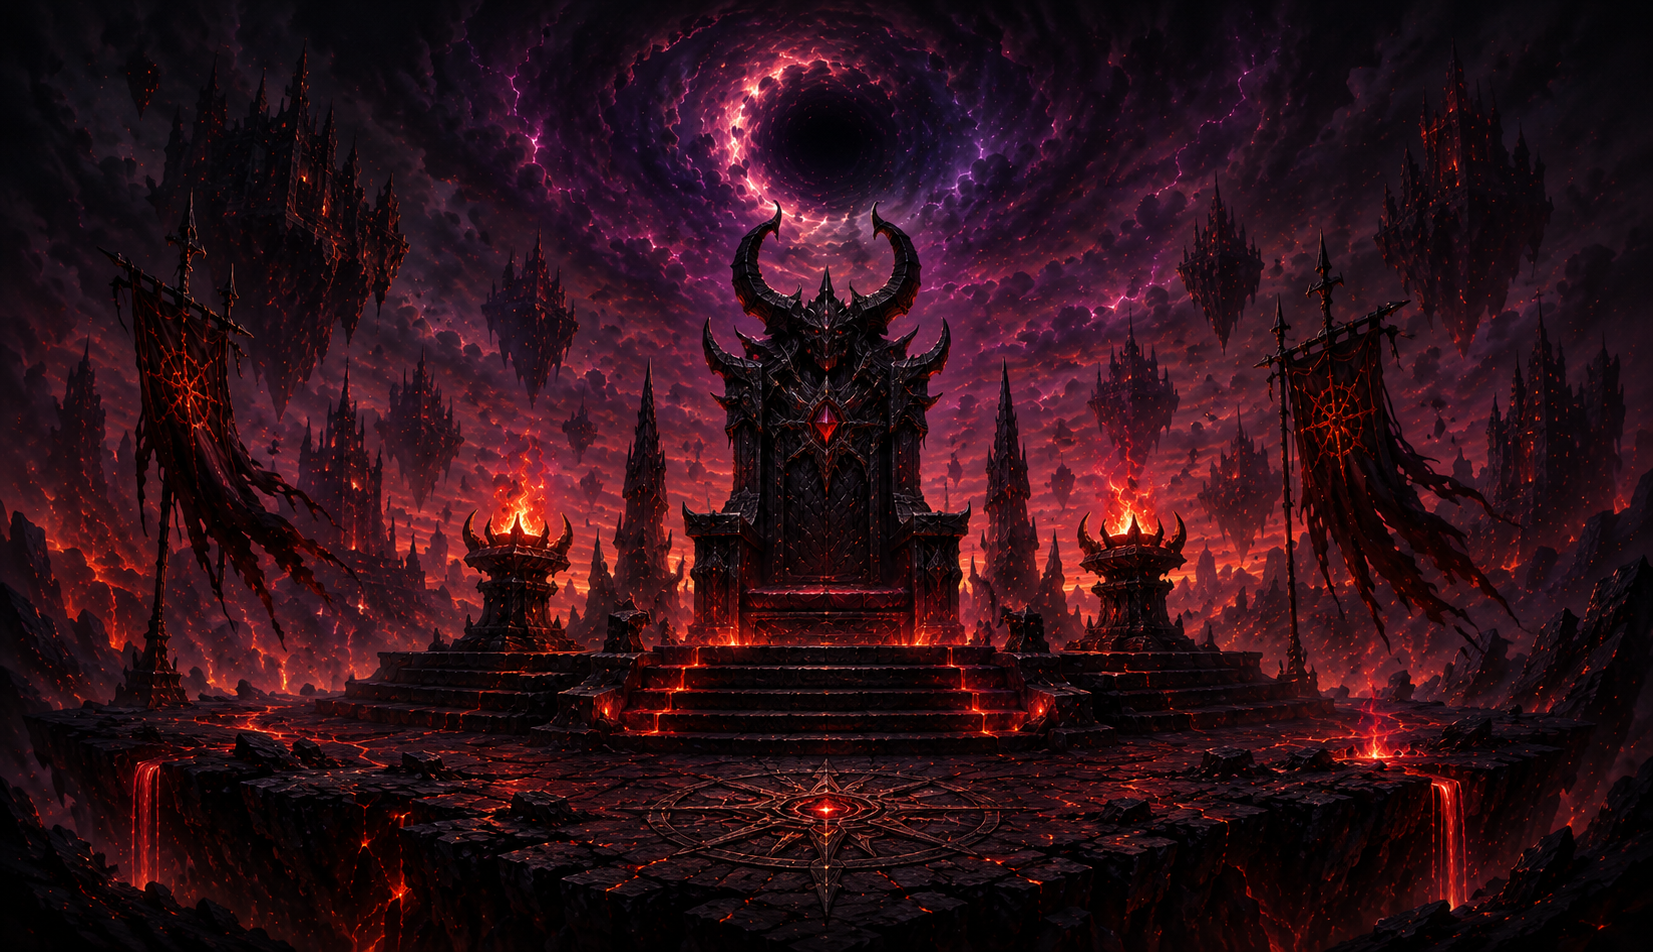
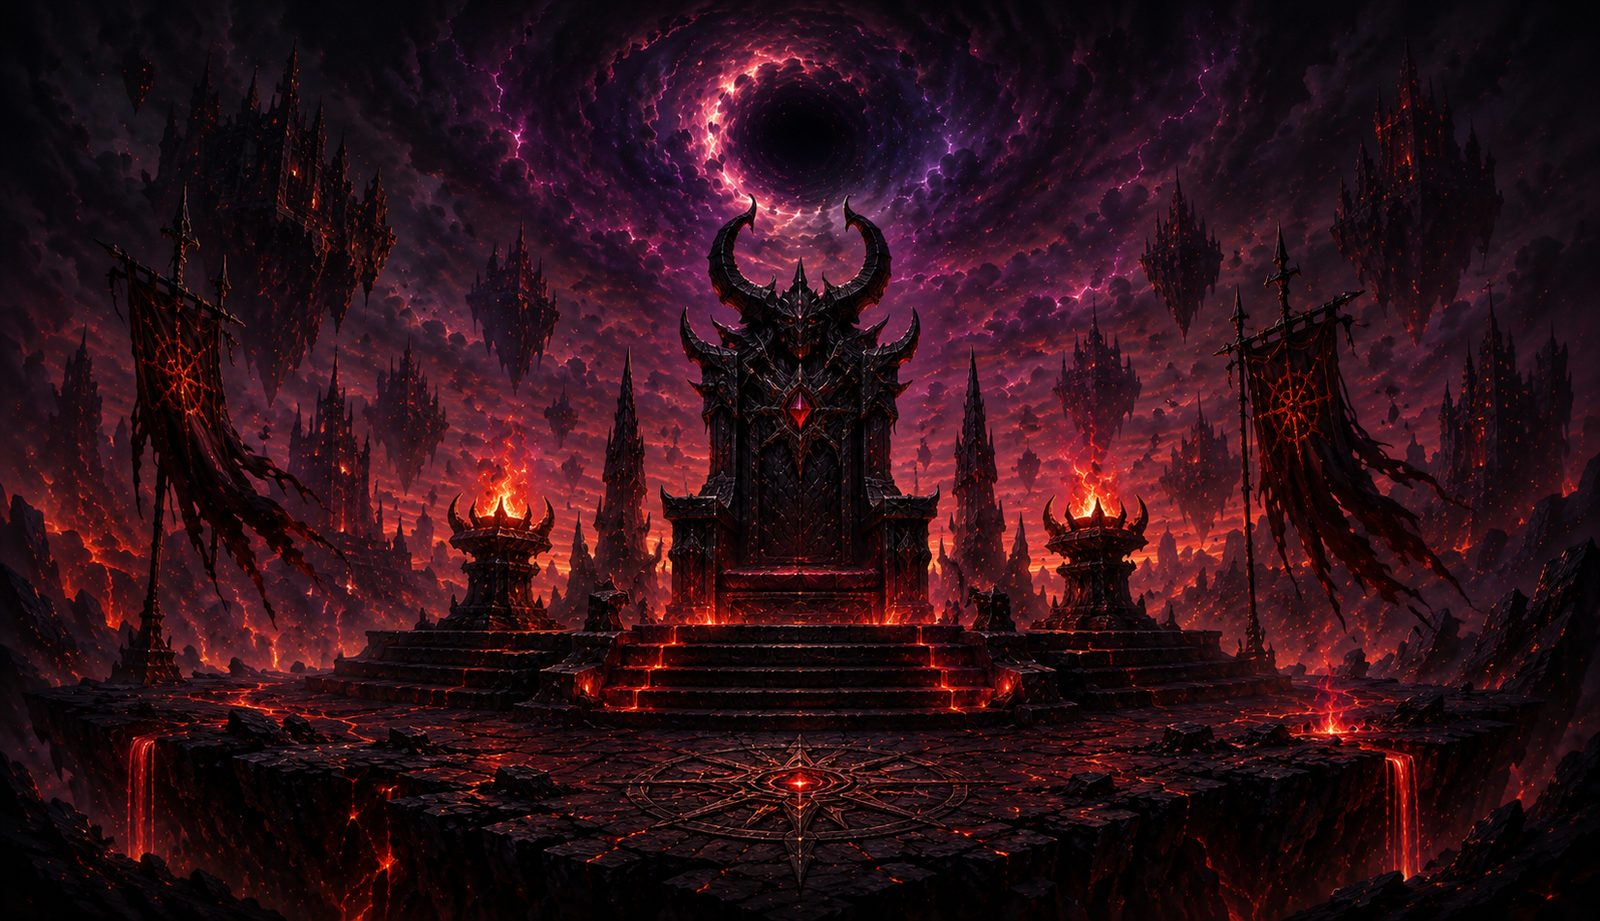
task 48: asuras codex page — chaos surge panel written from the first implementation pull (random-ally plus-three on astras, plus-one floor, the plus-two proven unreachable at call sites), mockup spend-economy voided, shared codex shell parameterized, crimson theme scoped; assets optimized; amendmen

Changed region(s): [[0.0938, 0.3952, 0.125, 0.4256]]

diff --git a/index.html b/index.html
@@ -752,10 +752,10 @@ button{ font-family:Cinzel,serif; letter-spacing:1px; }
 .fi-back:active{ transform:scale(.92); }
 .fi-col{ position:relative; z-index:1; max-width:520px; margin:0 auto; padding:54px 16px 40px; }
 /* T47 THE WIDEN: at >=1024 the fi column widens to 960 for the Devas codex page. The 5 untouched tabs (built for 520)
-   keep their 520 layout centered inside the wide column — only .fi-devas-page uses the full width. Phone unchanged. */
+   keep their 520 layout centered inside the wide column — only the codex pages (.fi-codex-page) use the full width. Phone unchanged. */
 @media(min-width:1024px){
   .fi-col{ max-width:960px; }
-  #fi-body > *:not(.fi-devas-page){ max-width:520px; margin-left:auto; margin-right:auto; }
+  #fi-body > *:not(.fi-codex-page){ max-width:520px; margin-left:auto; margin-right:auto; }
 }
 .fi-tabs{ display:flex; gap:6px; overflow-x:auto; -webkit-overflow-scrolling:touch; padding-bottom:6px; margin-bottom:16px; scrollbar-width:none; }
 .fi-tabs::-webkit-scrollbar{ display:none; }
@@ -861,6 +861,15 @@ button{ font-family:Cinzel,serif; letter-spacing:1px; }
   .fi-dstrats{ flex-direction:row; } .fi-dstrat{ flex:1 1 0; }
   .fi-dctas{ display:flex; gap:12px; } .fi-dctas .fi-dcta{ flex:1 1 0; }
 }
+/* T48 — ASURAS crimson theme (reuses the codex fi-d and fic structure; recolors the faction-identity accents only.
+   Strength-green / weakness-crimson semantic colors are left intact). */
+.fi-asuras-page .fi-dhero-title, .fi-asuras-page .fi-dsec-title, .fi-asuras-page .fi-dclosing,
+.fi-asuras-page .fi-dstrat-h, .fi-asuras-page .fi-dsyn-h{ color:#f0705a; }
+.fi-asuras-page .fi-dhero-eyebrow, .fi-asuras-page .fi-dsub, .fi-asuras-page .fi-dpillar-nm,
+.fi-asuras-page .fi-dpillar-ic, .fi-asuras-page .fi-dchip b, .fi-asuras-page .fi-dmatch-k{ color:var(--crimson); }
+.fi-asuras-page .fi-dpillar, .fi-asuras-page .fi-dchip, .fi-asuras-page .fi-dhero{ border-color:var(--crimson-dim); }
+.fi-asuras-page .fi-dcta{ border-color:var(--crimson-dim); }
+.fi-asuras-page .fi-dcta.primary{ background:linear-gradient(180deg,#3a1410,#1c0805); border-color:var(--crimson); color:#f4b8a8; }
 .fi-tab{ flex:0 0 auto; padding:9px 13px; border-radius:9px; background:rgba(0,0,0,.45); backdrop-filter:blur(5px); border:1px solid rgba(255,255,255,.16); color:var(--ink-dim); font-family:Cinzel,serif; font-size:11px; letter-spacing:.5px; white-space:nowrap; cursor:pointer; }
 .fi-tab.sel{ border-color:var(--gold); color:var(--gold); background:rgba(60,44,12,.5); }
 .fi-idhead{ text-align:center; margin-bottom:16px; }
@@ -5759,27 +5768,28 @@ function fiRenderWin(){
 /* ═══ TASK 47 — DEVAS CODEX PAGE. Authority: docs/DEVAS_CODEX_CONTENT_v1.md. Claim tags: [PULLED]=engine-verbatim,
    [VERIFY]=STEP-0-confirmed engine truth, [ED]=editorial. Every card mini is the T41b component (art crop + band);
    every txt shown is the LIVE engine txt (verbatim by construction, pulled from DECKS.devas). ═══ */
-function fiDDef(id){ return DECKS.devas.find(c=>c.id===id); }
-function fiCM(id){                               // T41b codex mini: art crop + name band + power chip, tappable → inspect
-  const c=fiDDef(id); if(!c) return fh('div',null);
-  const m=fh('div',{class:'fic-mini', onclick:()=>fiOpenInspectCard('devas', c)});
+/* T47/T48 — codex mini helpers, faction-parameterized (shared by the Devas + Asuras codex pages). */
+function fiCDef(faction,id){ return DECKS[faction].find(c=>c.id===id); }
+function fiCM(faction,id){                       // T41b codex mini: art crop + name band + power chip, tappable → inspect
+  const c=fiCDef(faction,id); if(!c) return fh('div',null);
+  const m=fh('div',{class:'fic-mini', onclick:()=>fiOpenInspectCard(faction, c)});
   const art=fh('div',{class:'fic-art'});
   const img=new Image(); img.alt=c.n; img.loading='lazy';
   img.onload=()=>img.classList.add('on'); img.onerror=()=>{ art.classList.add('fic-pending'); art.textContent=c.n; };
-  img.src=fiThumbSrc(c,'devas'); art.append(img); m.append(art);
+  img.src=fiThumbSrc(c,faction); art.append(img); m.append(art);
   m.append(fh('div',{class:'fic-band'}, fh('div',{class:'fic-nm'}, c.n), c.sub?fh('div',{class:'fic-epi'}, c.sub):null));
   if(c.p>0) m.append(fh('div',{class:'fic-chip'}, String(c.p)));
   return m;
 }
-function fiCMtrio(ids){ return fh('div',{class:'fic-trio'}, ...ids.map(fiCM)); }
-function fiCMtxt(id){                            // mini + LIVE verbatim engine txt (§2 key cards, §5 host)
-  const c=fiDDef(id);
-  return fh('div',{class:'fic-card'}, fiCM(id),
+function fiCMtrio(faction,ids){ return fh('div',{class:'fic-trio'}, ...ids.map(id=>fiCM(faction,id))); }
+function fiCMtxt(faction,id){                     // mini + LIVE verbatim engine txt (§2 key cards, §5 host)
+  const c=fiCDef(faction,id);
+  return fh('div',{class:'fic-card'}, fiCM(faction,id),
     fh('div',{class:'fic-txt'}, fh('div',{class:'fic-txt-nm'}, c.n), fh('p',null, c.txt)));
 }
 function fiSecTitle(t){ return fh('div',{class:'fi-dsec-title'}, t); }
 function fiRenderDevas(){
-  const GOLD='#E8C874', node=fh('div',{class:'fi-devas-page'});
+  const node=fh('div',{class:'fi-codex-page fi-devas-page'});
   // ── §1 HERO BANNER ──
   const hero=fh('div',{class:'fi-dhero'});
   hero.style.backgroundImage="url('assets/img/devas_codex_hero.png?v=1')";
@@ -5812,7 +5822,7 @@ function fiRenderDevas(){
   ].forEach(t=>ul.append(fh('li',null,t)));
   sbody.append(ul); shield.append(sbody); node.append(shield);
   node.append(fiSecTitle('Key Cards'));
-  node.append(fh('div',{class:'fic-cards'}, fiCMtxt('kavacha'), fiCMtxt('vedikeeper'), fiCMtxt('airavatacalf')));
+  node.append(fh('div',{class:'fic-cards'}, fiCMtxt('devas','kavacha'), fiCMtxt('devas','vedikeeper'), fiCMtxt('devas','airavatacalf')));
   // ── §3 STRENGTHS / WEAKNESSES (altar divider) ──
   node.append(fiSecTitle('Strengths & Weaknesses'));
   const sw=fh('div',{class:'fi-dsw'});
@@ -5841,12 +5851,12 @@ function fiRenderDevas(){
   ].forEach(([t,cap,ids],i)=>{
     strat.append(fh('section',{class:'fi-dpanel fi-dstrat'},
       fh('div',{class:'fi-dstrat-n'}, String(i+1)),
-      fh('div',{class:'fi-dstrat-h'}, t), fh('p',{class:'fi-dstrat-cap'}, cap), fiCMtrio(ids)));
+      fh('div',{class:'fi-dstrat-h'}, t), fh('p',{class:'fi-dstrat-cap'}, cap), fiCMtrio('devas',ids)));
   });
   node.append(strat);
   // ── §5 THE CELESTIAL HOST ──
   node.append(fiSecTitle('The Celestial Host'));
-  node.append(fh('div',{class:'fic-cards fic-host'}, ...['indra','surya','brihaspati','vayu','vajra','gayatri'].map(fiCMtxt)));
+  node.append(fh('div',{class:'fic-cards fic-host'}, ...['indra','surya','brihaspati','vayu','vajra','gayatri'].map(id=>fiCMtxt('devas',id))));
   node.append(fh('button',{class:'fi-dcta', onclick:()=>{ colFaction='devas'; showCollection(); }}, 'View Full Collection ›'));
   // ── §6 SIGNATURE SYNERGIES ──
   node.append(fiSecTitle('Signature Synergies'));
@@ -5858,7 +5868,7 @@ function fiRenderDevas(){
   ].forEach(([t,ids,res])=>{
     const p=fh('section',{class:'fi-dpanel fi-dsyn-p'}, fh('div',{class:'fi-dsyn-h'}, t));
     const row=fh('div',{class:'fi-dsyn-row'});
-    ids.forEach((id,i)=>{ if(i>0) row.append(fh('span',{class:'fi-dplus'}, '+')); row.append(fiCM(id)); });
+    ids.forEach((id,i)=>{ if(i>0) row.append(fh('span',{class:'fi-dplus'}, '+')); row.append(fiCM('devas',id)); });
     row.append(fh('span',{class:'fi-darrow'}, '→'), fh('div',{class:'fi-dsyn-res'}, res));
     p.append(row); syn.append(p);
   });
@@ -5879,6 +5889,109 @@ function fiRenderDevas(){
     fh('button',{class:'fi-dcta', onclick:()=>{ colFaction='devas'; showCollection(); }}, 'View Deva Collection'),
     fh('button',{class:'fi-dcta locked', onclick:()=>toastMute('Coming with the Wave')}, 'Build a Deva Deck'),
     fh('button',{class:'fi-dcta primary', onclick:()=>fiSelectTab('asuras')}, 'Continue to Asuras ›')));
+  return node;
+}
+/* ═══ TASK 48 — ASURAS CODEX PAGE (the T47 shell). Authority: docs/ASURAS_CODEX_CONTENT_v1.md. Same structure + classes
+   as the Devas page; faction='asuras' (crimson theme via .fi-asuras-page); every card mini live-verbatim from DECKS.asuras. ═══ */
+function fiRenderAsuras(){
+  const F='asuras', node=fh('div',{class:'fi-codex-page fi-asuras-page'});
+  // §1 HERO
+  const hero=fh('div',{class:'fi-dhero'}); hero.style.backgroundImage="url('assets/img/asuras_codex_hero.png?v=1')";
+  hero.append(fh('div',{class:'fi-dhero-scrim'}),
+    fh('div',{class:'fi-dhero-in'},
+      fh('div',{class:'fi-dhero-eyebrow'}, 'THE BREAKERS OF RULES'),
+      fh('div',{class:'fi-dhero-title'}, 'ASURAS'),
+      fh('p',{class:'fi-dhero-intro'}, 'Born of ambition and forged in void-fire, the Asuras seize power without apology. Every gift they take has a price, and they pay it gladly. In chaos they find freedom. In destruction, opportunity.'),
+      fh('div',{class:'fi-dchips'},
+        fh('div',{class:'fi-dchip'}, fh('b',null,'Difficulty'),' Intermediate'),
+        fh('div',{class:'fi-dchip'}, fh('b',null,'Playstyle'),' Aggression and Calculated Risk'))));
+  node.append(hero);
+  node.append(fh('div',{class:'fi-dpillars'},
+    fh('div',{class:'fi-dpillar'}, fh('div',{class:'fi-dpillar-ic'}, '⚔'), fh('div',{class:'fi-dpillar-nm'}, 'Power')),
+    fh('div',{class:'fi-dpillar'}, fh('div',{class:'fi-dpillar-ic'}, '♛'), fh('div',{class:'fi-dpillar-nm'}, 'Ambition')),
+    fh('div',{class:'fi-dpillar'}, fh('div',{class:'fi-dpillar-ic'}, '✷'), fh('div',{class:'fi-dpillar-nm'}, 'Chaos'))));
+  // §2 CHAOS SURGE
+  node.append(fiSecTitle('Signature Mechanic — Chaos Surge'));
+  const surge=fh('section',{class:'fi-dpanel fi-dshield'});
+  surge.append(fh('div',{class:'fi-dshield-art'}, fh('img',{src:'assets/img/asuras_codex_surge.png?v=1', alt:''})));
+  const body=fh('div',{class:'fi-dshield-body'},
+    fh('p',{class:'fi-dlead'}, 'Chaos Surge is the storm the Asura weapons carry — every Astra they loose feeds it.'),
+    fh('div',{class:'fi-dsub'}, 'How Chaos Surge works'));
+  const ul=fh('ul',{class:'fi-dlist'});
+  [ 'When you play an Asura Astra, Chaos Surge fires: a random friendly Unit gains +3 power. Even an Asura play that triggers nothing sparks a smaller +1 Surge — chaos always finds a way.',
+    'Nearly every Asura Astra reads “Triggers Chaos Surge” — and some trigger it twice.',
+    'Kali Asura feeds on it: “If Chaos Surge triggered this round, gain +3 power.”',
+    'Chandrahas doubles your first Astra each round — and its Surges with it.'
+  ].forEach(t=>ul.append(fh('li',null,t)));
+  body.append(ul); surge.append(body); node.append(surge);
+  node.append(fiSecTitle('Key Cards'));
+  node.append(fh('div',{class:'fic-cards'}, fiCMtxt(F,'kali'), fiCMtxt(F,'chandrahas'), fiCMtxt(F,'vidyutastra')));
+  // §3 STRENGTHS / WEAKNESSES (throne divider)
+  node.append(fiSecTitle('Strengths & Weaknesses'));
+  const sw=fh('div',{class:'fi-dsw'});
+  const mk=(cls,title,items)=>{ const col=fh('div',{class:'fi-dpanel '+cls}, fh('div',{class:'fi-dsw-h'}, title));
+    const l=fh('ul',{class:'fi-dlist'}); items.forEach(t=>l.append(fh('li',null,t))); col.append(l); return col; };
+  sw.append(mk('fi-dstr','Strengths',[
+    'Explosive burst — Kumbhakarna wakes for 3 to all; Pashupatastra converts your whole board into damage.',
+    'Board-wide Astras pierce Dharma Shields.',
+    'Disruption from every angle — discard (Rahu), stolen turns (Tamasa), negation (Brahmadanda).',
+    'Sacrifice converts bodies into cards and tokens (Rudhira Bali, Raktabija’s Curse).',
+    'Relentless tempo — free Astra turns (Mayasura’s Blueprint).']));
+  sw.append(fh('div',{class:'fi-daltar'}, fh('img',{src:'assets/img/asuras_codex_throne.png?v=1', alt:''})));
+  sw.append(mk('fi-dwk','Weaknesses',[
+    'The price is real — your own cards cost you units, power, and turns (Ahamkara, Dhumraksha, Pisacha’s decay, Mahishasura’s hunger).',
+    'Single-target removal is blanked by a Dharma Shield.',
+    'Almost no healing — the Iron Crucible returns 1, and only to the already-wounded.',
+    'Tripura’s glory ends the instant any Astra is played — including yours.',
+    'Overextension invites ruin — spend the board, and a long round buries you.']));
+  node.append(sw);
+  // §4 CORE STRATEGY
+  node.append(fiSecTitle('Core Strategy'));
+  const strat=fh('div',{class:'fi-dstrats'});
+  [['Strike Before They Settle','Your curve is a weapon. Spend it while their engines are still warming.',['berserker','kali','meghnad']],
+   ['Make Every Astra Count','Sequence Chandrahas and the Blueprint so each weapon does double work.',['chandrahas','blueprint','vidyutastra']],
+   ['Pay the Price on Purpose','Sacrifice on your schedule, not theirs — a unit spent is a card drawn, a token raised.',['bloodoath','raktabija','ahamkara']]
+  ].forEach(([t,cap,ids],i)=>{
+    strat.append(fh('section',{class:'fi-dpanel fi-dstrat'},
+      fh('div',{class:'fi-dstrat-n'}, String(i+1)),
+      fh('div',{class:'fi-dstrat-h'}, t), fh('p',{class:'fi-dstrat-cap'}, cap), fiCMtrio(F,ids)));
+  });
+  node.append(strat);
+  // §5 THE INFERNAL HOST
+  node.append(fiSecTitle('The Infernal Host'));
+  node.append(fh('div',{class:'fic-cards fic-host'}, ...['mahabali','ravana','kumbha','pashupata','ahamkara','chandrahas'].map(id=>fiCMtxt(F,id))));
+  node.append(fh('button',{class:'fi-dcta', onclick:()=>{ colFaction='asuras'; showCollection(); }}, 'View Full Collection ›'));
+  // §6 SIGNATURE SYNERGIES
+  node.append(fiSecTitle('Signature Synergies'));
+  const syn=fh('div',{class:'fi-dsyn'});
+  [['The Chaos Engine',['chandrahas','kali'],'Every weapon you loose pays twice.'],
+   ['The Astra Storm',['bana','berserker','blueprint'],'The storm feeds the army that rides it.'],
+   ['The Price Paid Forward',['bloodoath','raktabija'],'Spend one soldier. Collect a card and two more.'],
+   ['Death is Negotiable',['shukra','sanjivani'],'Your dead return. So do theirs — on your side.']
+  ].forEach(([t,ids,res])=>{
+    const p=fh('section',{class:'fi-dpanel fi-dsyn-p'}, fh('div',{class:'fi-dsyn-h'}, t));
+    const row=fh('div',{class:'fi-dsyn-row'});
+    ids.forEach((id,i)=>{ if(i>0) row.append(fh('span',{class:'fi-dplus'}, '+')); row.append(fiCM(F,id)); });
+    row.append(fh('span',{class:'fi-darrow'}, '→'), fh('div',{class:'fi-dsyn-res'}, res));
+    p.append(row); syn.append(p);
+  });
+  node.append(syn);
+  // §7 MATCHUP GUIDANCE
+  node.append(fiSecTitle('Matchup Guidance'));
+  const mg=fh('section',{class:'fi-dpanel fi-dmatch'});
+  [['Strong into','Slow engines and greedy value plans — you end the game before their accumulation matters.'],
+   ['Difficult against','Deva protection — a Dharma Shield blanks your single-target removal; lean on board-wide Astras, which pierce.'],
+   ['Protect','Your Surge payoffs and engines — Kali Asura, Bana, Chandrahas.'],
+   ['Remove first','Healers and shields — everything that lets them survive your best turn.'],
+   ['Intermediate tip','Count the price before you pay it. Every sacrifice should buy tempo you actually use this round.']
+  ].forEach(([k,v])=>mg.append(fh('div',{class:'fi-dmatch-row'}, fh('span',{class:'fi-dmatch-k'}, k), fh('span',{class:'fi-dmatch-v'}, v))));
+  node.append(mg);
+  // §8 CLOSING + CTAs
+  node.append(fh('div',{class:'fi-dclosing'}, 'The Asuras do not ask for power. They take it.'));
+  node.append(fh('div',{class:'fi-dctas'},
+    fh('button',{class:'fi-dcta', onclick:()=>{ colFaction='asuras'; showCollection(); }}, 'View Asura Collection'),
+    fh('button',{class:'fi-dcta locked', onclick:()=>toastMute('Coming with the Wave')}, 'Build an Asura Deck'),
+    fh('button',{class:'fi-dcta primary', onclick:()=>fiSelectTab('vanaras')}, 'Continue to Vanaras ›')));
   return node;
 }
 function fiRenderFaction(faction){
@@ -5970,7 +6083,7 @@ function fiRenderRealms(){
 const fiTabNodes = {};
 function fiSelectTab(tab){
   document.querySelectorAll('#fi-tabs .fi-tab').forEach(b=> b.classList.toggle('sel', b.dataset.tab===tab));
-  if(!fiTabNodes[tab]) fiTabNodes[tab] = tab==='win' ? fiRenderWin() : tab==='realms' ? fiRenderRealms() : tab==='devas' ? fiRenderDevas() : fiRenderFaction(tab);   // T47: Devas gets the dedicated codex page
+  if(!fiTabNodes[tab]) fiTabNodes[tab] = tab==='win' ? fiRenderWin() : tab==='realms' ? fiRenderRealms() : tab==='devas' ? fiRenderDevas() : tab==='asuras' ? fiRenderAsuras() : fiRenderFaction(tab);   // T47 Devas / T48 Asuras codex pages
   const body=$('fi-body'); body.innerHTML=''; body.append(fiTabNodes[tab]);
   $('factionintro').scrollTop=0;
 }

diff --git a/docs/DESIGN_SYSTEM_RESKIN_v1.md b/docs/DESIGN_SYSTEM_RESKIN_v1.md
@@ -789,3 +789,94 @@ phone and 960; regression landing/collection(44)/vault/mulligan/battle
 identical; parity — engine 0 lines, test.js byte-identical 40.9/59.1,
 scenario 50 / venom 38 / story 48, 0 console.log / 0 console errors.
 NOT committed.
+
+## AMENDMENT A8 — ASURAS CODEX PAGE (ruled 2026-07-20, T48)
+Authority: docs/ASURAS_CODEX_CONTENT_v1.md. The Asuras tab of the
+Factions & Realms page (data-tab="asuras") now renders the Asuras
+codex (fiRenderAsuras) via the T47 shell — the same §1–§8 structure
+and .fi-d*/.fic-* classes as the Devas page, faction='asuras', crimson
+theme (.fi-asuras-page recolors the faction-identity accents only;
+the strength-green / weakness-crimson semantics are left intact). The
+codex mini helpers were parameterized by faction (fiCM/fiCMtxt/fiCMtrio
+now take faction); the widen selector became `#fi-body >
+*:not(.fi-codex-page)` so BOTH codex pages use 960 at >=1024 (measured:
+asuras 928, devas 928, the other 4 tabs 520, no h-overflow). Every card
+mini renders LIVE verbatim txt from DECKS.asuras (post-R90). The old
+fiRenderFaction('asuras') content is replaced; all other tabs untouched.
+⚠ BUILD NOTE: a comment `/* … .fi-d*/.fic-* … */` closed early on the
+`*/` inside `.fi-d*/`, silently eating the crimson rules — caught by a
+CSSOM check (rule absent), reworded; the lesson: no `*/` glob-strings
+inside CSS comments.
+
+CHAOS SURGE — the STEP 0 pull: chaosSurge(g,pi,times,amount=3) is
+Asura-only; per `times` it picks a RANDOM friendly non-ghost Unit
+(g.rng) and adds `amount` power, then sets chaosThisRound (for Kali).
+CALL-SITE AMOUNT TABLE (the complete set, T48 pre-commit reconcile):
+line 1642 floor surge = +1; line 1678 Asura Astra = +3 (default); line
+1698 Asura Mantra (EXP-H) = +3 (default); line 1717 Chandrahas ON PLAY
+= +3 (default). So the only REACHABLE amounts are +3 and +1. NO call
+site passes +2 — the `// EXP-I: +2 from Unit plays` comment on line 818
+is VESTIGIAL (that experiment was never wired; a unit/hero play that
+doesn't otherwise surge falls through to the +1 floor at 1642), so +2
+is UNREACHABLE and the shipped S2 line's two amounts are complete.
+Triggered immediately by Asura Astras (nearly all read "Triggers Chaos
+Surge") AND Asura Mantras (EXP-H); a +1 floor surge fires on any Asura
+play that didn't otherwise surge (engine.js ~1642). Chandrahas doubles
+`times`; Vidyutastra fires twice. R37
+negation-source: Manasa cancels effect AND surge (surgeNegated);
+Brahmadanda cancels effect only → the caster's Surge still fires.
+FINAL S2 [VERIFY] core line shipped: "When you play an Asura Astra,
+Chaos Surge fires: a random friendly Unit gains +3 power. Even an Asura
+play that triggers nothing sparks a smaller +1 Surge — chaos always
+finds a way." — states the pulled behavior exactly (random beneficiary,
++3 Astra / +1 floor). The R37 negation nuance was OMITTED as advanced
+(the doc's one-sentence allowance): an accurate single sentence would
+have to introduce Manasa/Brahmadanda with no context and confuse the
+codex reader.
+
+CLAIM TABLE (rendered === engine):
+  [VERIFY] Surge core — the written line (above) quoted against the
+    chaosSurge pull ✓ (no contradiction with the doc's [ED] lead; a
+    rewrite-to-truth within protocol, not a STOP).
+  [PULLED] "…and some trigger it twice" — Vidyutastra "Triggers Chaos
+    Surge twice" ✓; Kali "If Chaos Surge triggered this round, gain +3
+    power." = kali def verbatim ✓; Chandrahas double-first-Astra + surge
+    twice = chandrahas def ✓. All three rendered mini txts === engine.
+  [PULLED] S3 "Board-wide Astras pierce Dharma Shields." + "Single-
+    target removal is blanked by a Dharma Shield." = the T47 shield pull
+    (AoE iterates opp.units, ignores astraProtected; single-target astras
+    filter !astraProtected) ✓.
+  [PULLED] Iron Crucible "returns 1, and only to the already-wounded" =
+    "your Units that lost power this round regain 1." ✓; Tripura "ends
+    the instant any Astra is played — including yours" = "Ends the
+    instant any Astra is played by either player." ✓.
+  [PULLED] S5 six host txts (mahabali/ravana/kumbha/pashupata/ahamkara/
+    chandrahas) = live DECKS.asuras post-R90, verbatim ✓ (spot: pashupata
+    rendered === engine).
+  [ED] intro / chips / strengths-weaknesses phrasing / strategy / synergy
+    results / closing — editorial voice. The mockup's invented mechanics
+    (Chaos-spend economy, BHAIRAVA/KAAL ASTRA/ANDHAKAR MANTRA, "44 of 66")
+    are VOID and were not built.
+
+CTA WIRING (real-button proven): §5/§8 [View …Collection] →
+colFaction='asuras'; showCollection() (lands on the Asuras collection
+tab; BACK → landing). §8 [Build an Asura Deck] → visible-locked, toasts
+"Coming with the Wave" (no nav). §8 [Continue to Vanaras] →
+fiSelectTab('vanaras'). Every mini → fiOpenInspectCard('asuras', c).
+
+ASSETS — 3 files optimized in place: asuras_codex_hero (1653×952 →
+1600×921 JPEG-in-png 256KB), asuras_codex_surge (1254² 315KB),
+asuras_codex_throne (1844×853 → 1200×555 144KB). ?v=1 stamps. (Note:
+hero = the lord, throne = the empty throne — filenames match content
+per c8ef995.)
+
+GATES (all green): claim table verified (rendered === engine, Surge line
+quoted against the pull); both widths — 390 stacked, 1280 the asuras
+page at 960 with 2-col shield/key-cards/host + 3-col strengths/strategy,
+the 4 other tabs 520, no overlap/h-scroll, minis tappable; 3 CTAs real-
+button proven; the other 5 tabs + the win(45b) + the Devas codex(T47)
+render unchanged at both widths (Devas title stays gold — crimson scoped
+to .fi-asuras-page); regression landing/collection(44)/vault/mulligan/
+battle identical; parity — engine 0 lines, test.js byte-identical
+40.9/59.1, scenario 50 / venom 38 / story 48, 0 console.log / 0 console
+errors. NOT committed.